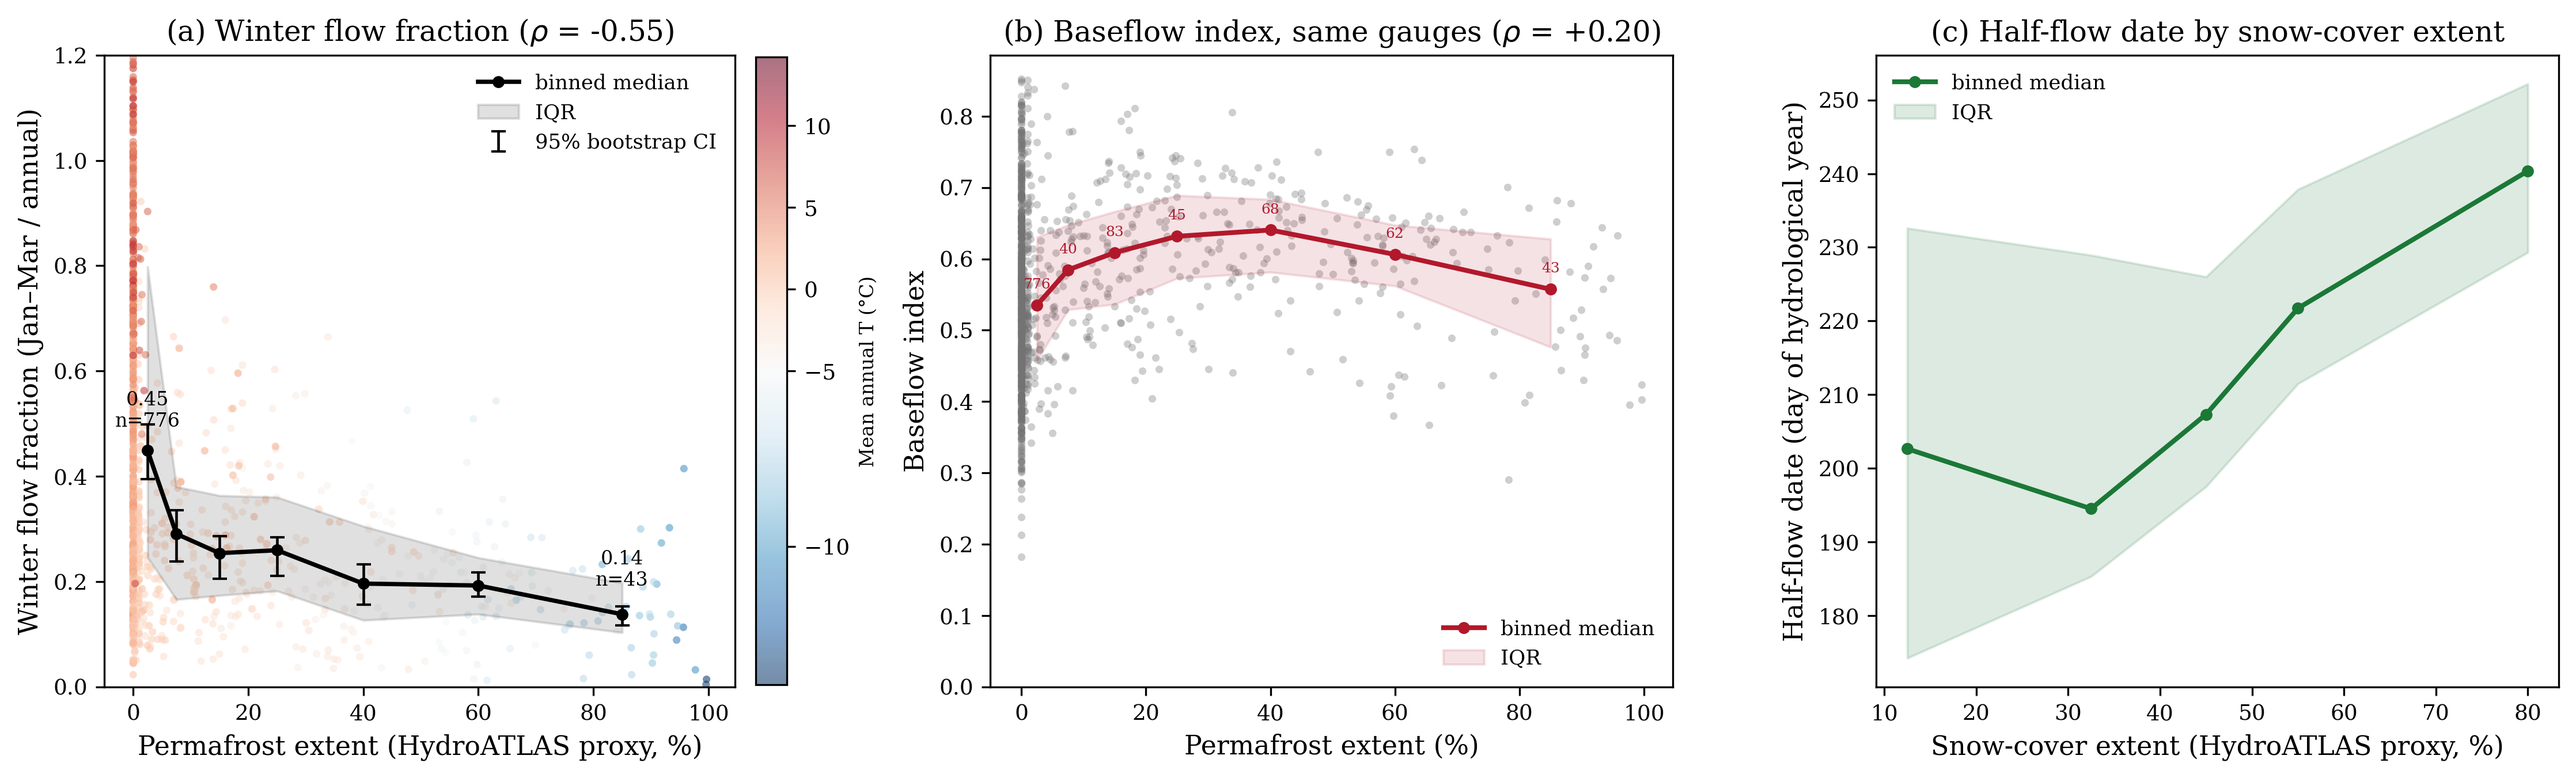
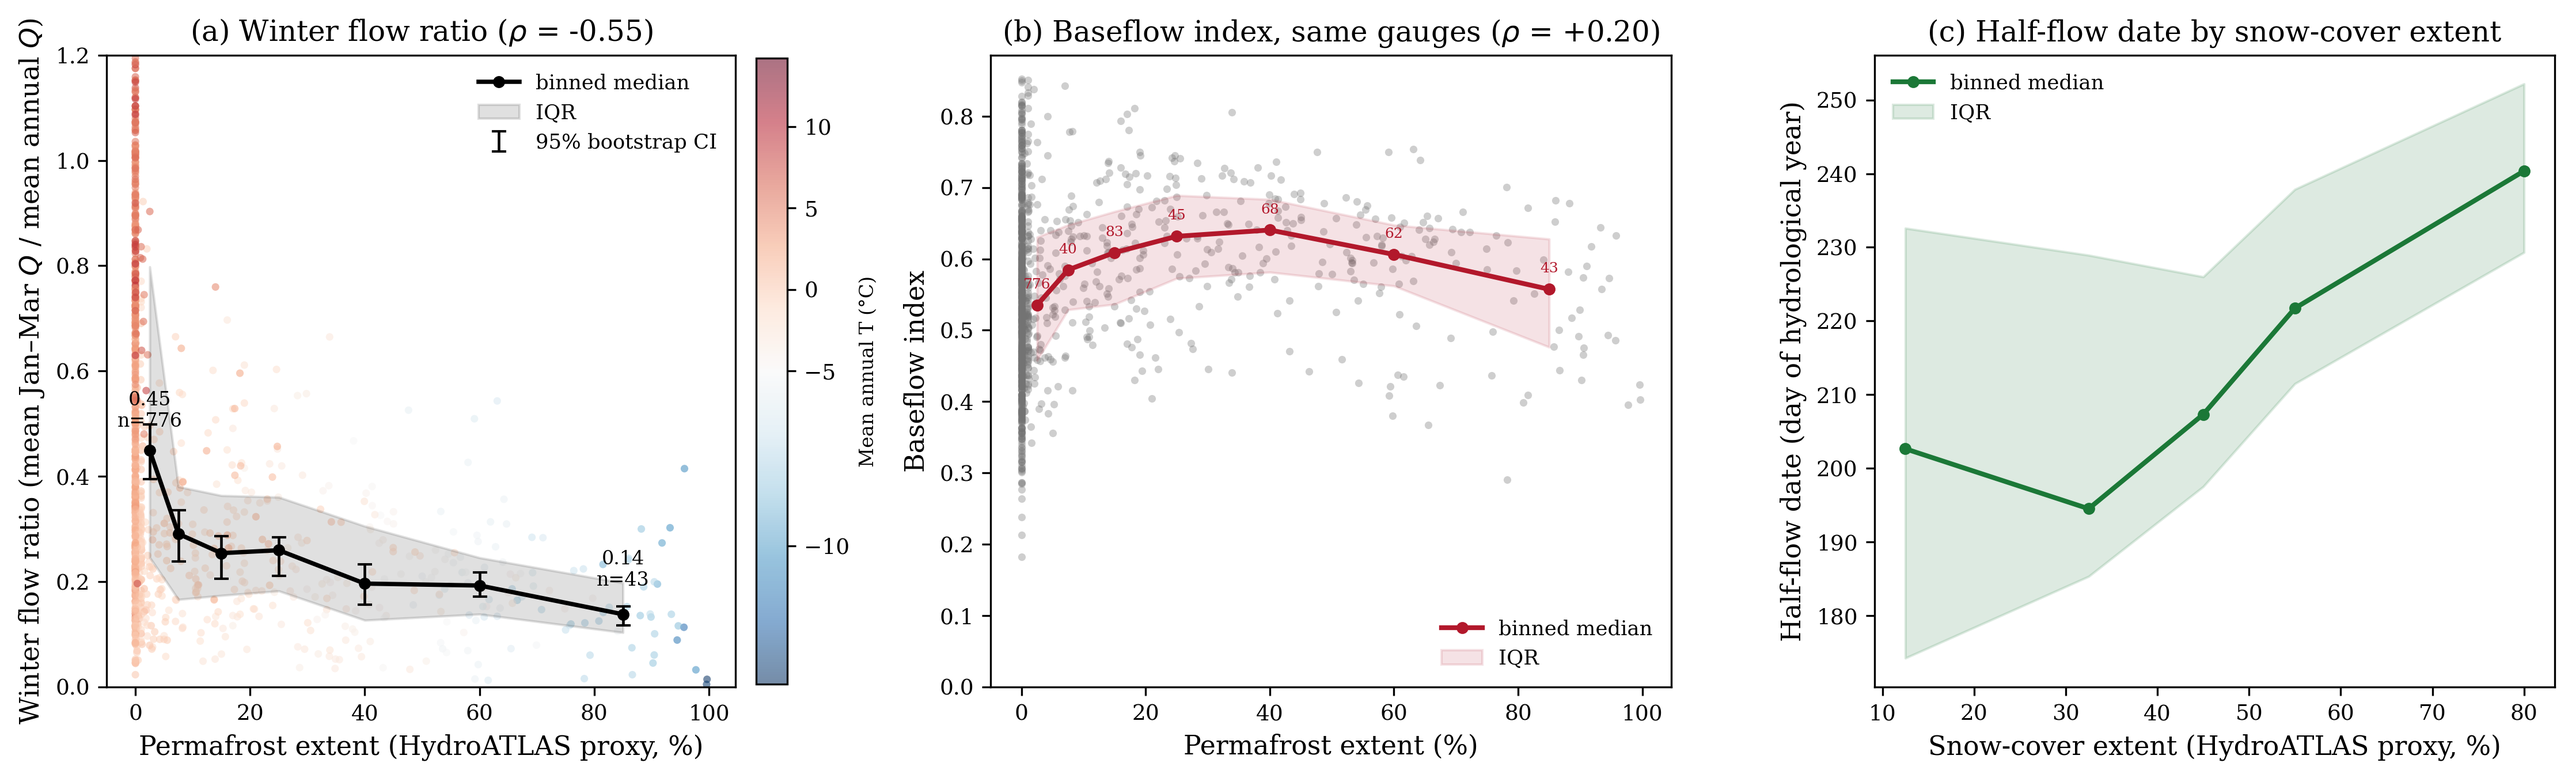
fix(figs): relabel Fig. 7a winter flow 'fraction' to 'ratio'
The panel title and y-axis contradicted the paper's own definition (a ratio
of mean daily rates, not a share of annual volume) — round-7 editor M3.
Byte parity across paper/images/ and paper/overleaf/images/.

Claude-Session: https://claude.ai/code/session_01E7YWKvkoaSFZxKDhty2sEV

diff --git a/scripts/plot_coldregion_gradient.py b/scripts/plot_coldregion_gradient.py
@@ -193,8 +193,8 @@ def main() -> None:
     ax_a.set_ylim(0, Y_CLIP_A)
     print(f"panel (a): {n_clipped} of {len(wff)} points above the {Y_CLIP_A} axis limit")
     ax_a.set_xlabel("Permafrost extent (HydroATLAS proxy, %)")
-    ax_a.set_ylabel("Winter flow fraction (Jan\u2013Mar / annual)")
-    ax_a.set_title(f"(a) Winter flow fraction ($\\rho$ = {rho_w:+.2f})")
+    ax_a.set_ylabel("Winter flow ratio (mean Jan\u2013Mar $Q$ / mean annual $Q$)")
+    ax_a.set_title(f"(a) Winter flow ratio ($\\rho$ = {rho_w:+.2f})")
     ax_a.legend(loc="upper right", frameon=False)
     cb = fig.colorbar(sc, ax=ax_a, fraction=0.046, pad=0.03)
     cb.set_label("Mean annual T (\u00b0C)", fontsize=8)
